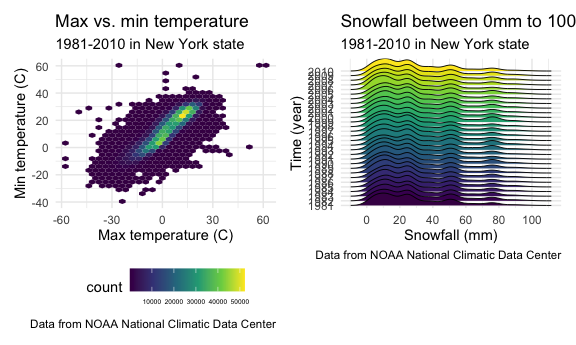
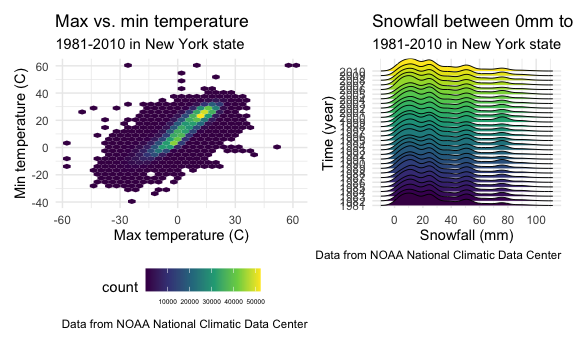
change the layout in facet

diff --git a/p8105_hw3_jz3297.md b/p8105_hw3_jz3297.md
@@ -456,7 +456,7 @@ snow_p =
     caption = "Data from NOAA National Climatic Data Center"
   )
 
-tmax_tmin_p + snow_p
+tmax_tmin_p + snow_p + plot_layout(ncol = 2, width = c(2, 1.5))
 ```
 
     ## Warning: Removed 1136276 rows containing non-finite values (stat_binhex).
